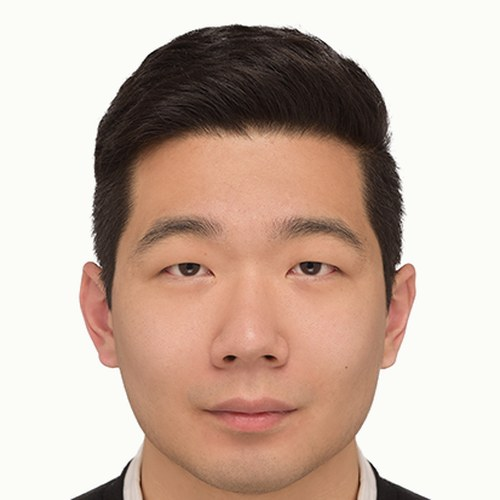
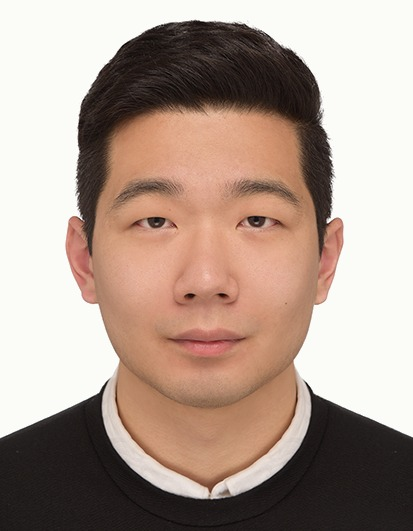
Give the portrait the room the photo already has
The square frame cropped the ID photo at the neck even though the
original carries the shoulders and sweater. Rather than pad the photo
out to a square - mirroring or stretching its edges both leave visible
seams - the frame now takes the photo's own 413x531 proportion, so the
file is the original with its white studio background toned to the
site's paper. Scaled to match at both narrow breakpoints.

diff --git a/assets/css/style.css b/assets/css/style.css
@@ -100,10 +100,12 @@ img { max-width: 100%; height: auto; display: block; }
 
 /* ---------- identity ----------------------------------------- */
 
+/* Portrait aspect (roughly 3:4) so the photo shows head and shoulders
+   rather than a square crop that stops at the neck. */
 .portrait-frame {
   position: relative;
   width: 8.5rem;
-  height: 8.5rem;
+  height: 11rem;
   margin-bottom: var(--step-2);
   background: var(--signal-tint);
   border-radius: 2px;
@@ -496,7 +498,7 @@ img { max-width: 100%; height: auto; display: block; }
   }
   .portrait-frame {
     width: 5.5rem;
-    height: 5.5rem;
+    height: 7.1rem;
     margin: 0;
     grid-row: span 2;
   }
@@ -535,7 +537,7 @@ img { max-width: 100%; height: auto; display: block; }
 @media (max-width: 34rem) {
   body { font-size: 1rem; }
   .rail { grid-template-columns: 4.5rem minmax(0, 1fr); }
-  .portrait-frame { width: 4.5rem; height: 4.5rem; }
+  .portrait-frame { width: 4.5rem; height: 5.8rem; }
   .entry, .skill-group { grid-template-columns: 1fr; gap: .35rem; }
   .entry-period { padding-top: 0; }
   .trace { height: 56px; }
